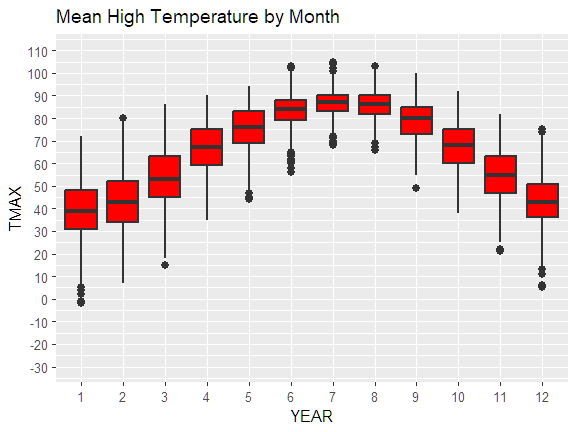
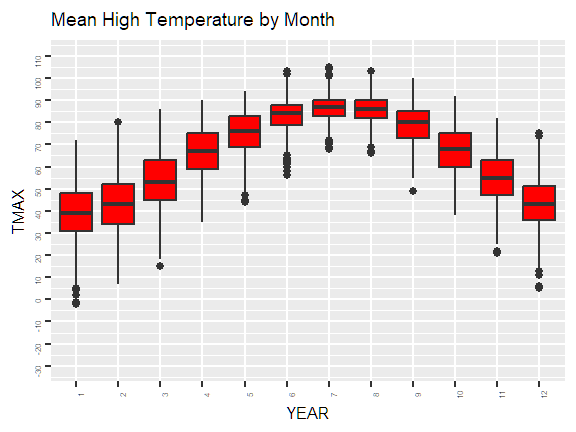
Correct image display after removing duplicate image names;
Resize fonts in image for legibility

diff --git a/README.md b/README.md
@@ -58,19 +58,18 @@ Consistent Days Between Heavy Rainfall
 - Cooling facilities for crews on hot days
 - Equipment maintenance challenges
 
-![Mean Temp](images/g.hotmonth.png)
+![Hot Month](images/g.hotmonth.png)
 
 - No statistical change in number of days above 100  °F
-![Mean Temp](images/g.hotdays.png)
-
+![Hot Days](images/g.hotdays.png)
 
 Consistent Number of Freezing Days
 - Freezing days increase potential for water line breakage
 - Number of lowest temperature days decreasing
 
-![Mean Temp](images/g.coldmonth)
-![Mean Temp](images/g.frezdays.png)
-![Mean Temp](images/g.g.subzdays.png)
+![Cold Month](images/g.coldmonth.png)
+![Freeze Days](images/g.frezdays.png)
+![SubZero Days](images/g.subzdays.png)
 
 ## Limitations of Analysis
 
